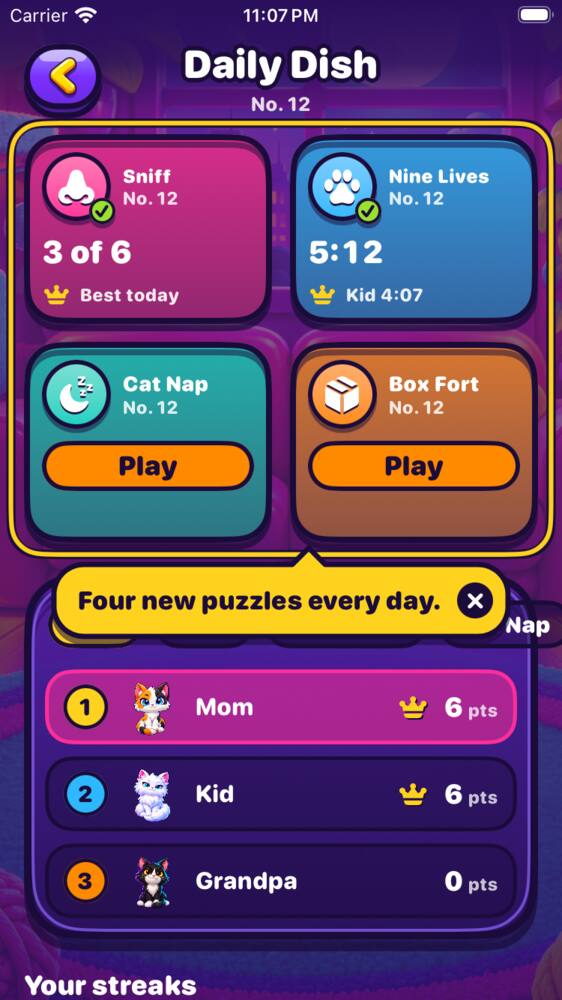
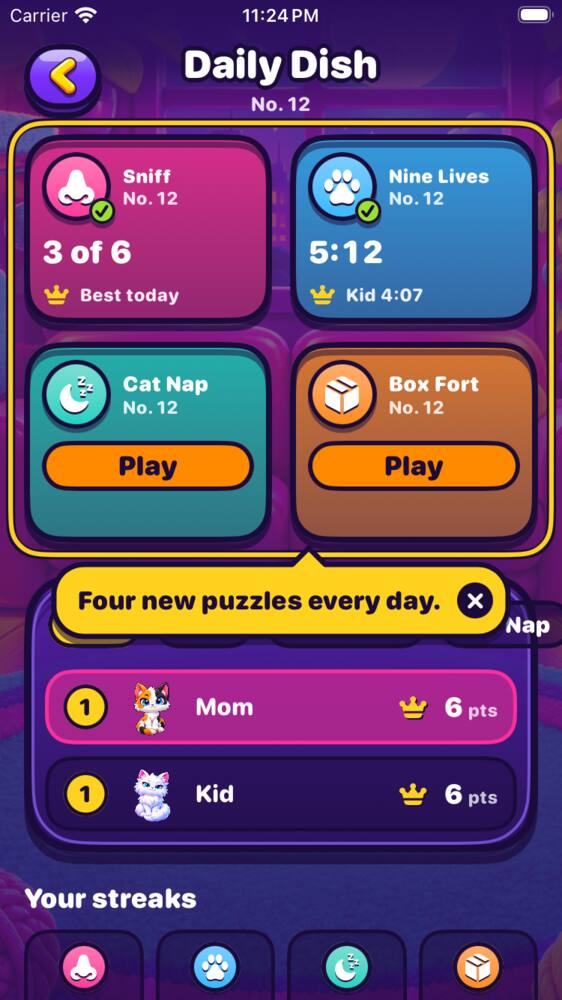
fix(daily-app): the Dish shows shared ranks and nobody at zero
The demo board now ranks the way the server does (equal points share a
rank) and leaves off someone still playing. The Dish tab hides any row at
0 points (a run closed at 04:00 in fourth place or lower), so nobody reads
as last. Screenshots of the Dish and the tip are retaken.

diff --git a/apps/play-ios/Pounce/Daily/DailyDemo.swift b/apps/play-ios/Pounce/Daily/DailyDemo.swift
@@ -59,14 +59,20 @@
                 rows: all
                     ? [row("me", me, 2, 1, result("box-fort", .done, ms: 300_000, points: long ? 12_480 : 1_240)), row("pr_kid", kid, 5, 2, result("box-fort", .done, ms: 280_000, points: long ? 9_870 : 980))]
                     : [])
+            // As the server sends it: ties share a rank, and someone still playing isn't on it.
             let dish = DailyDish(
-                rows: mine
+                rows: all
                     ? [
-                        DailyDishRow(player: "me", name: me, cat: 2, rank: 1, points: all ? 13 : 6, crowns: all ? ["sniff", "cat-nap", "box-fort"] : ["sniff"], ended: all ? 4 : 2),
-                        DailyDishRow(player: "pr_kid", name: kid, cat: 5, rank: 2, points: all ? 8 : 6, crowns: ["nine-lives"], ended: all ? 3 : 2),
-                        DailyDishRow(player: "pr_gramps", name: gramps, cat: 1, rank: 3, points: all ? 3 : 0, crowns: [], ended: all ? 1 : 0),
+                        DailyDishRow(player: "me", name: me, cat: 2, rank: 1, points: 13, crowns: ["sniff", "cat-nap", "box-fort"], ended: 4),
+                        DailyDishRow(player: "pr_kid", name: kid, cat: 5, rank: 2, points: 8, crowns: ["nine-lives"], ended: 3),
+                        DailyDishRow(player: "pr_gramps", name: gramps, cat: 1, rank: 3, points: 3, crowns: [], ended: 1),
                     ]
-                    : [DailyDishRow(player: "pr_kid", name: kid, cat: 5, rank: 1, points: 5, crowns: ["sniff", "nine-lives"], ended: 2)])
+                    : mine
+                        ? [
+                            DailyDishRow(player: "me", name: me, cat: 2, rank: 1, points: 6, crowns: ["sniff"], ended: 2),
+                            DailyDishRow(player: "pr_kid", name: kid, cat: 5, rank: 1, points: 6, crowns: ["nine-lives"], ended: 2),
+                        ]
+                        : [DailyDishRow(player: "pr_kid", name: kid, cat: 5, rank: 1, points: 5, crowns: ["sniff", "nine-lives"], ended: 2)])
             return DailyBoard(date: date, games: [sniff, nine, nap, fort], dish: dish, tvs: mode == "fresh" ? 0 : 1)
         }
 

diff --git a/apps/play-ios/PounceKit/Tests/PounceKitTests/DailyWireTests.swift b/apps/play-ios/PounceKit/Tests/PounceKitTests/DailyWireTests.swift
@@ -110,6 +110,16 @@ enum DailyFixtures {
         #expect(board.with(tvs: 0).tvs == 0)
     }
 
+    @Test func theDishShowsNobodyAtZero() {
+        let dish = DailyDish(rows: [
+            DailyDishRow(player: "me", name: "Mom", cat: 1, rank: 1, points: 6, crowns: [], ended: 2),
+            DailyDishRow(player: "pr_a", name: "Kid", cat: 2, rank: 1, points: 6, crowns: [], ended: 2),
+            DailyDishRow(player: "pr_b", name: "Gramps", cat: 3, rank: 3, points: 0, crowns: [], ended: 0),
+        ])
+        #expect(dish.shown.map(\.player) == ["me", "pr_a"])
+        #expect(dish.shown.map(\.rank) == [1, 1])
+    }
+
     @Test func summariesReadAsTheSpecSays() {
         func r(_ outcome: DailyOutcome, ms: Int = 247_000, guesses: Int? = nil, points: Int? = nil, n: Int = 12) -> DailyResult {
             DailyResult(game: "x", date: "d", number: n, outcome: outcome, timeMs: ms, progress: 1, guesses: guesses, points: points)

diff --git a/apps/play-ios/Pounce/Daily/DailyBoardView.swift b/apps/play-ios/Pounce/Daily/DailyBoardView.swift
@@ -64,10 +64,10 @@ struct DailyBoardRows: View {
         VStack(spacing: 8) {
             switch tab {
             case .dish:
-                if board.dish.rows.isEmpty {
+                if board.dish.shown.isEmpty {
                     empty
                 } else {
-                    ForEach(board.dish.rows) { dishRow($0) }
+                    ForEach(board.dish.shown) { dishRow($0) }
                 }
             case .game(let id):
                 let rows = board.game(id)?.rows ?? []

diff --git a/apps/play-ios/PounceKit/Sources/PounceKit/Daily/DailyWire.swift b/apps/play-ios/PounceKit/Sources/PounceKit/Daily/DailyWire.swift
@@ -225,6 +225,10 @@ public struct DailyDish: Sendable, Hashable, Codable {
     public let rows: [DailyDishRow]
 
     public init(rows: [DailyDishRow]) { self.rows = rows }
+
+    /// The rows the Dish shows: never someone at 0 points (a run closed at 04:00 in fourth place or
+    /// lower earns nothing), so nobody reads as last. Ranks are the server's, ties shared.
+    public var shown: [DailyDishRow] { rows.filter { $0.points > 0 } }
 }
 
 /// `GET /v1/daily/board`, and the socket's snapshot.
